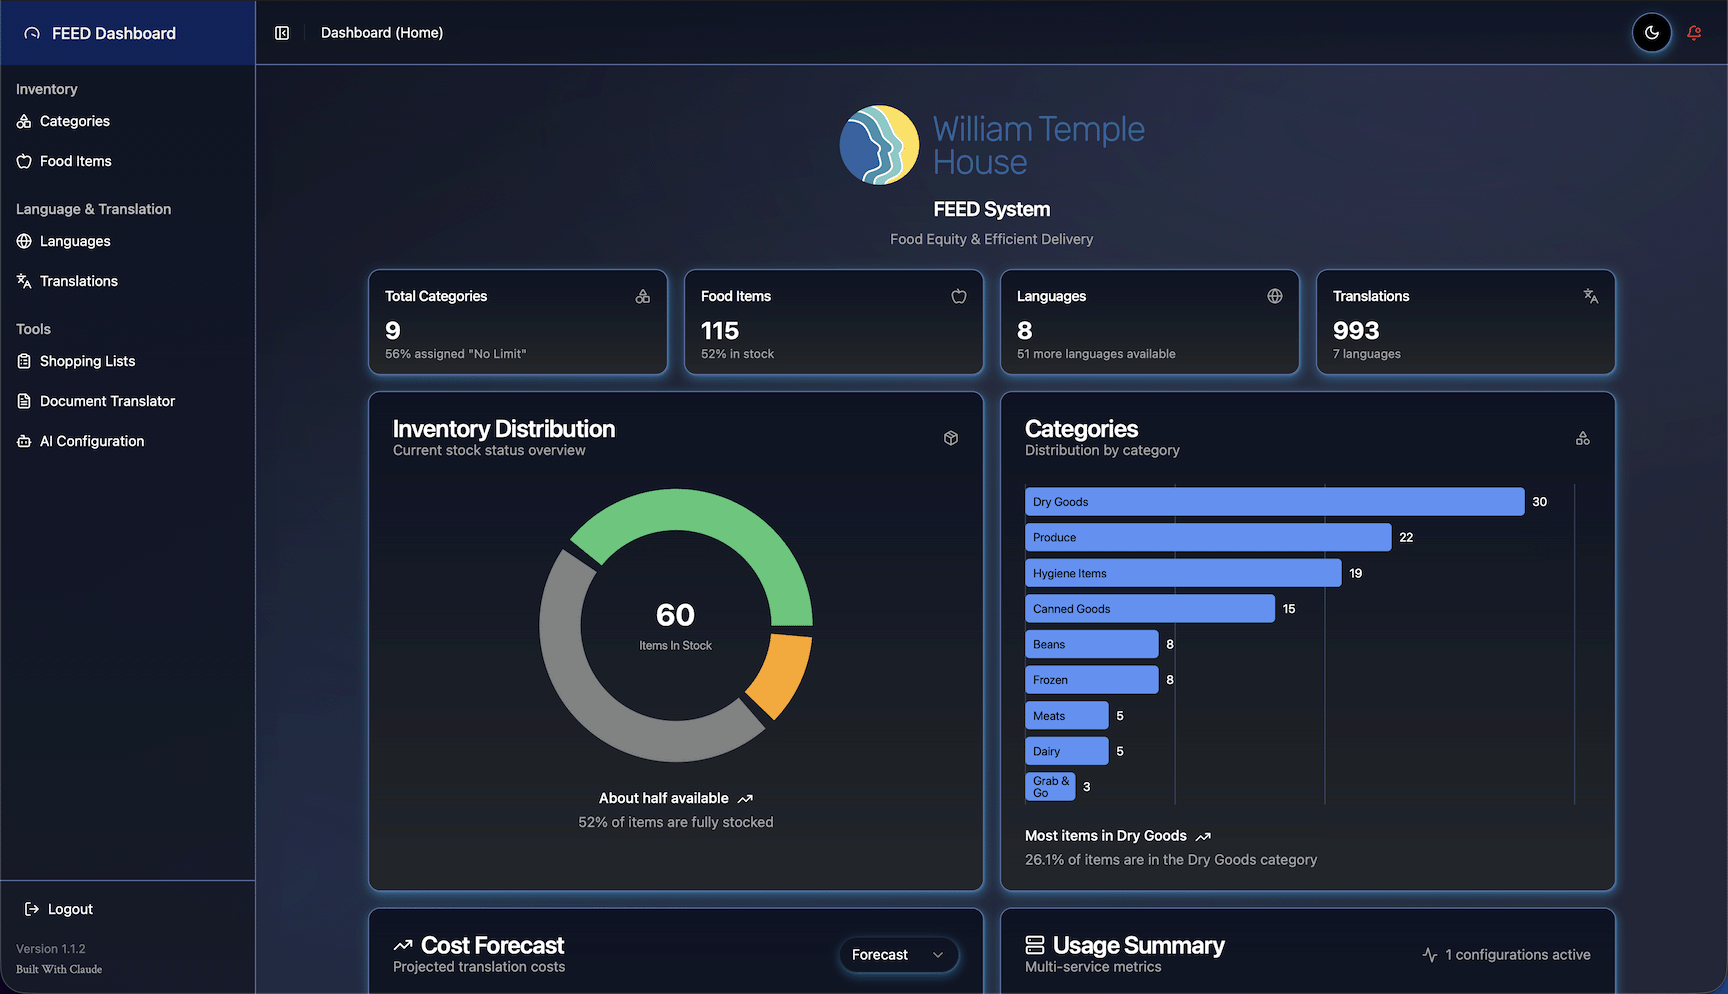
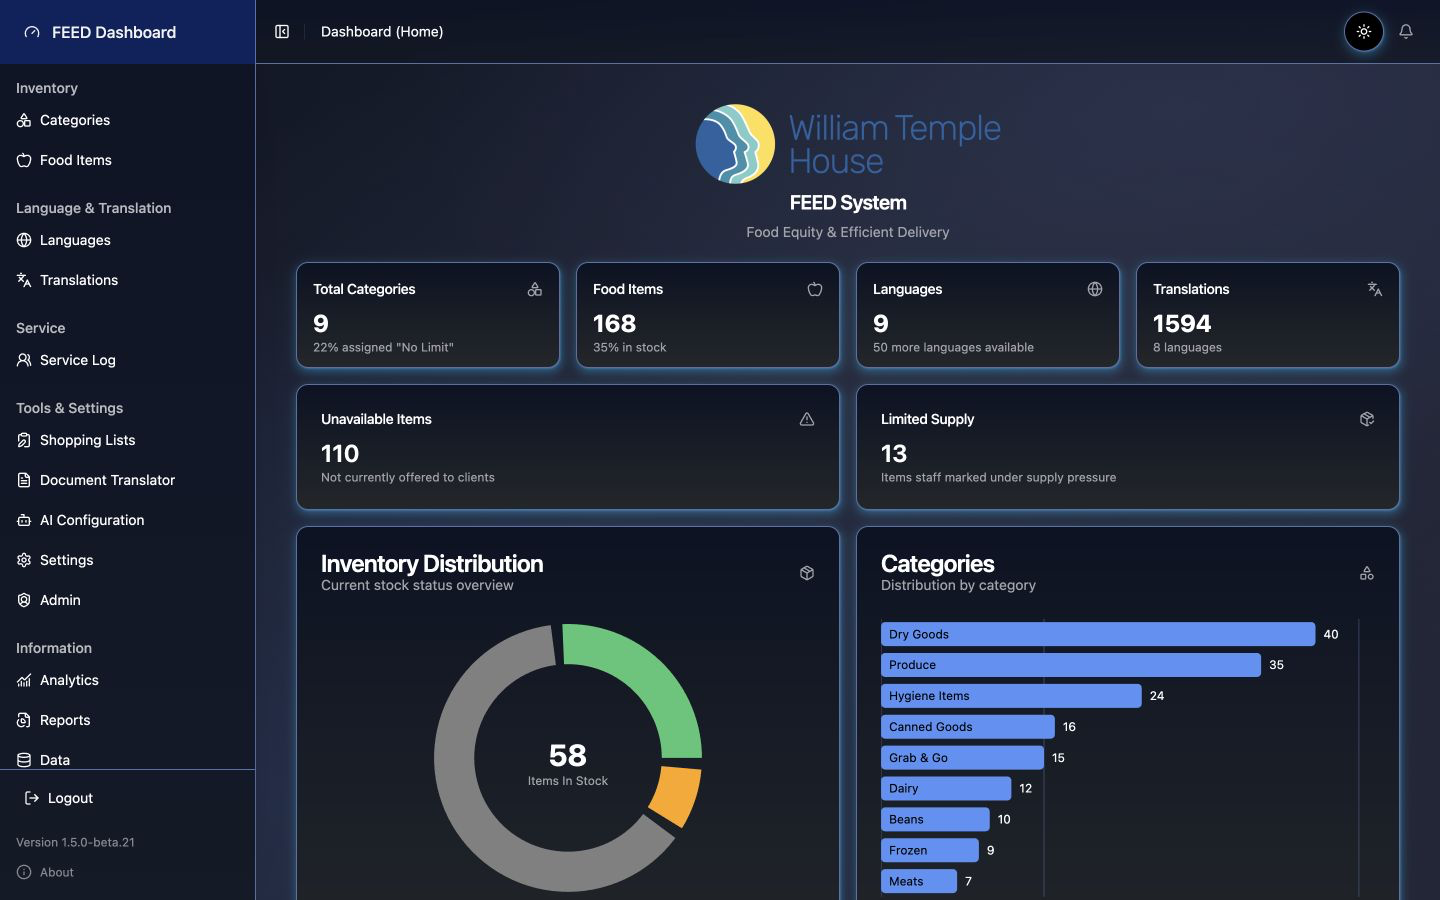
docs(readme): refresh for 1.5.0 — new screenshots and current feature list
The repository landing page still described a beta and showed screenshots from
May 23, three months and a sidebar restructure out of date. Anyone arriving from
the production site saw an interface that no longer exists.

Screenshots replaced with yesterday's captures, which are 1440x900, consistent,
and already audited for personal information — no staff roster, no client data,
and the Admin contact field shows a placeholder rather than a real address.
Reordered so the map leads: it is the most distinctive thing in 1.5.0 and the
clearest single image of what FEED now does. Dropped the AI Configuration and
light-mode builder shots rather than refresh them; the section reads better at
eight images than ten.

Feature list rewritten around what 1.5.0 added: the four analytics lenses,
reports with saved templates, the Service Log and client visit imports, backup
and restore, and administration. Added a short entry on honest counting —
records that begin years apart are never summed, and every card states its own
denominator — because that is the part a peer organisation evaluating FEED
should know is deliberate rather than incidental.

Tech stack notes that analytics charts, including the postal-code map, render
server-side as SVG, so a saved report reproduces with no browser and no network
call. Acknowledgements now credit the three geographic data sources, which
matters beyond courtesy: GeoNames is CC BY and requires attribution.
[…]

diff --git a/README.md b/README.md
@@ -18,7 +18,7 @@ food-distribution programs at scale.
 
 **Production deployment:** https://feed.williamtemple.app
 **License:** [AGPL-3.0-or-later](./LICENSE)
-**Status:** v1.5.0-beta.10 — evaluating unified data ingestion and native pantry-service logging
+**Status:** v1.5.0 — released 2026-08-20
 
 ---
 
@@ -47,14 +47,33 @@ software. FEED supports the common operational reality of food pantries:
 - **Dashboards** — translation throughput, cost projections, token
   usage by provider, response-time monitoring; all with proper
   empty-state handling for fresh installs.
-- **Operations and procurement analytics** — effective-dated inventory history,
-  imported Oregon Food Bank supply records, and reusable PDF/CSV report
-  templates.
-- **Pantry service operations** — a shared daily Service Log with configurable
-  metrics, historical Link2Feed and SIMC visit imports, and WTH operational-log
-  migration support.
+- **Analytics in four lenses** — *Operations* (inventory history and
+  availability), *Procurement* (Oregon Food Bank supply and spend), *Service*
+  (what happened on a service day: households served, how service was
+  delivered, household size, turned away, languages), and *Clients* (who the
+  people are: age ranges, ethnicity, gender identity, housing, and a map of the
+  postal codes households gave).
+- **Reports you can hand to someone** — select any cards from any lens and get
+  a PDF to read plus a CSV of the figures behind it. Save the selection as a
+  template and re-run it later against a new date range, so a monthly funder
+  report is set up once. Charts render server-side, including the postal-code
+  map, so a saved report reproduces without a browser.
+- **Honest counting** — cards draw on records that begin years apart and are
+  never summed. Each says which record produced its figure, how far back that
+  record reaches, and how many households were actually asked a question, so a
+  low answer rate reads as a newer question rather than a refusal.
+- **Pantry service operations** — a shared daily Service Log with
+  administrator-configurable metrics, plus client visit imports from Link2Feed
+  and SIMC. Large imports run as background jobs with live progress. FEED reads
+  only what it needs and never stores names, addresses, phone numbers, or email
+  addresses.
 - **Unified data management** — one source-detecting Add Data workflow, durable
-  cross-domain import history, rollback/restore, and sanitized backup/restore.
+  cross-domain import history, and backup, restore, and reset. A restore can
+  bring back selected units only, so recovering last month's inventory need not
+  disturb anything else.
+- **Administration** — see who has access, invite staff, revoke access with
+  immediate effect, and optionally restrict sign-in to an allowlist. An audit
+  history records what administrators changed.
 - **In-app Help** — searchable staff guides written in plain language,
   plus a concise About page with project and license information.
 - **Magic-link OTP authentication** — no passwords. Email-based
@@ -78,11 +97,26 @@ fork it, modify it, and deploy your own instance — see
 
 ## Screenshots
 
-**Shopping List Builder** — design a printable template once; the system
-generates current-inventory-aware PDFs on demand. Here, an English
-template previews inline in Chinese:
+**Where Households Live** — households by postal code, sized by count. Circles
+mark postal codes, never addresses; FEED stores no client location beyond the
+code itself:
 
-![Shopping List Builder with inline Chinese translation](./docs/screenshots/shopping-list-builder-dark.png)
+![Analytics Clients lens showing a bubble map of households by postal code](./docs/screenshots/analytics-clients-map.png)
+
+**Analytics, in four lenses** — Operations, Procurement, Service and Clients,
+each scoped by the same date range:
+
+![The four Analytics lens tabs with date-range presets](./docs/screenshots/analytics-lens-tabs.png)
+
+**Build a report from any cards** — select what you want, in order, and export
+a PDF plus a CSV of the underlying figures:
+
+![Analytics cards in selection mode, numbered for a report](./docs/screenshots/analytics-report-selection.png)
+
+**Service Log** — a shared daily record with administrator-configurable
+metrics:
+
+![Service Log showing configurable daily metric cards](./docs/screenshots/service-log.png)
 
 **Dashboard** — inventory distribution, translation throughput, and cost
 monitoring, with full light/dark theming:
@@ -91,20 +125,20 @@ monitoring, with full light/dark theming:
 |------|-------|
 | ![Dashboard, dark mode](./docs/screenshots/dashboard-dark.png) | ![Dashboard, light mode](./docs/screenshots/dashboard-light.png) |
 
+**Shopping List Builder** — design a printable template once; the system
+generates current-inventory-aware PDFs on demand:
+
+![Shopping List Builder canvas with side panels](./docs/screenshots/shopping-list-builder-dark.png)
+
 **Food Item Management** — inventory with per-item limits, stock status,
 and dietary flags:
 
-![Food Item Management](./docs/screenshots/food-item-management-dark.png)
+![Food Item Management table with status filters](./docs/screenshots/food-item-management-dark.png)
 
 **Document Translator** — upload English DOCX files and manage
 translations across 59 languages:
 
-![Document Translator](./docs/screenshots/document-translator-light.png)
-
-**AI Configuration** — configure providers, models, cost limits, and
-system prompts:
-
-![AI Configuration](./docs/screenshots/ai-configuration-light.png)
+![Document Translator with translated files listed](./docs/screenshots/document-translator-light.png)
 
 ---
 
@@ -178,7 +212,12 @@ to any Docker host (Synology, NAS, cloud VPS, your own home server).
 - **Database:** SQLite (file-backed; switchable to Postgres via
   Prisma adapter)
 - **PDF generation:** Chromium / HTML-to-PDF via Puppeteer; pdfmake
-  retained as a reference path
+  retained as a reference path. Analytics charts — including the
+  postal-code map — are generated server-side as SVG, so a saved report
+  reproduces without a browser and without a network call
+- **Mapping:** MapLibre GL in the browser; server-side maps use US Census
+  cartographic boundaries (public domain) and GeoNames place names (CC BY),
+  both read from disk
 - **AI providers:** Anthropic (Claude family), OpenAI (GPT family),
   Google (Gemini family) — selectable per use case via in-app config
 - **Email:** Resend for the magic-link OTP flow
@@ -281,6 +320,14 @@ and [Lucide Animated](https://lucide-animated.com/).
 
 Translation infrastructure is built on top of the major AI providers
 (Anthropic, OpenAI, Google) with their model APIs.
+
+Geographic data behind the Clients map: postal-code centroids from
+[us-zips](https://github.com/nickcatal/us-zips) (MIT), cartographic boundaries
+from the US Census via [us-atlas](https://github.com/topojson/us-atlas) (public
+domain), and place names from [GeoNames](https://www.geonames.org/) via
+[all-the-cities](https://github.com/zeke/all-the-cities), used under
+[CC BY 4.0](https://creativecommons.org/licenses/by/4.0/). FEED derives map
+positions from postal codes alone and never stores a client address.
 
 ---
 
